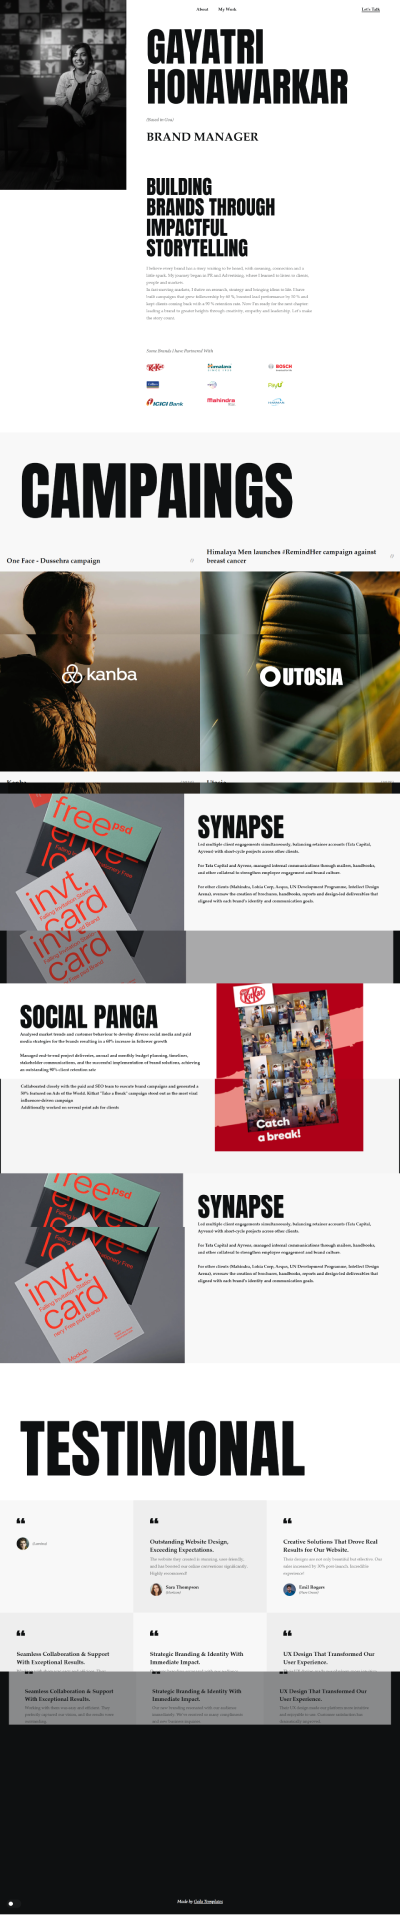
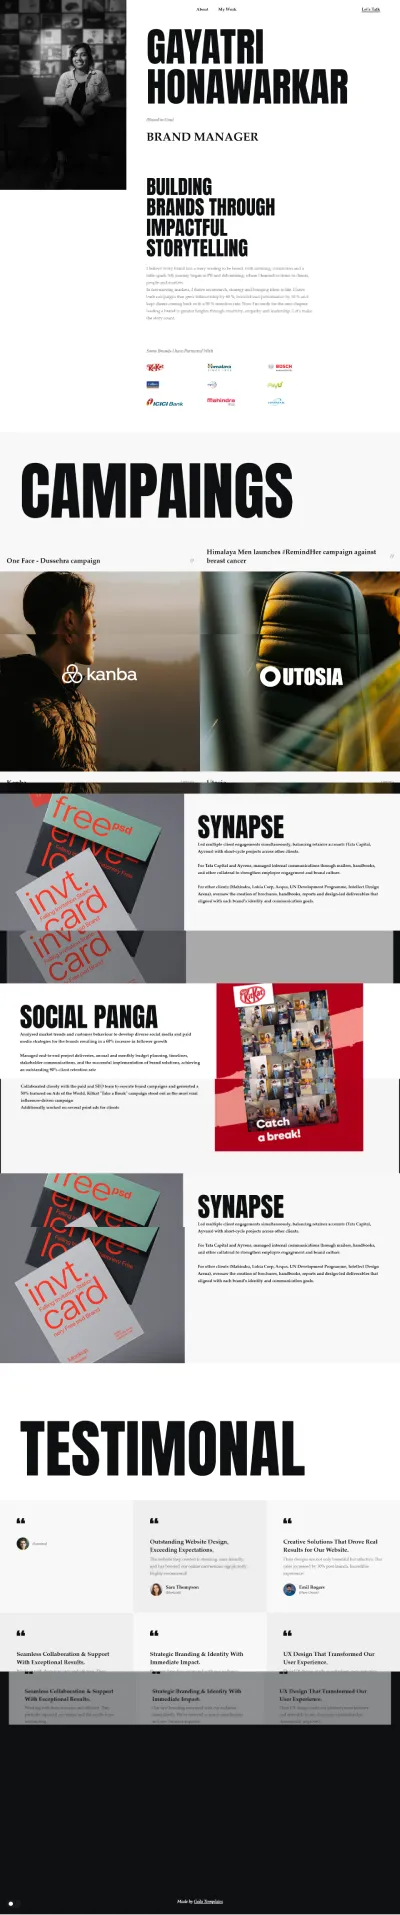
Score Improvement

diff --git a/index.html b/index.html
@@ -126,7 +126,7 @@
                 <picture>
                     <source media="(min-width: 768px)" srcset="images/mel-d.webp">
                     <source media="(max-width: 767px)" srcset="images/mel-m.webp">
-                    <img fetchpriority="high" src="images/mel-d.webp" alt="Meliston Costa, Creative & Digital Frontend Developer portrait or illustrative banner" >
+                    <img fetchpriority="high" src="images/mel-d.webp" alt="Meliston Costa, Creative & Digital Frontend Developer portrait or illustrative banner" />
                 </picture>
                 <!-- <img fetchpriority="high" src="images/mel.webp" alt="Meliston Costa, Creative & Digital Frontend Developer portrait or illustrative banner" /> -->
                 <!-- loading="lazy"  -->
